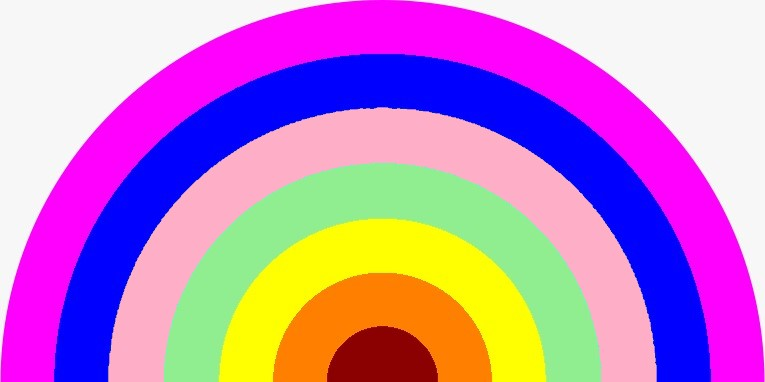
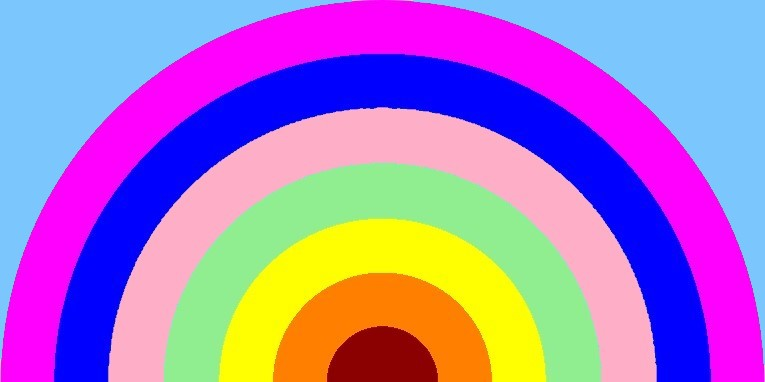
Color blindness screen completd with images modification and back btn added

Changed region(s): [[0.5412, 0.0, 1.0, 0.9503], [0.0, 0.0, 0.451, 0.9215]]

diff --git a/src/pages/ColorBlind/index.js b/src/pages/ColorBlind/index.js
@@ -4,19 +4,23 @@ import defaultImg from '../../assets/default.jpeg';
 import redGreenImg from '../../assets/red-green.jpeg';
 import tritonamalyImg from '../../assets/tritonamaly.jpeg';
 import tritanopiaImg from '../../assets/tritanopia.jpeg';
+import {useNavigate} from 'react-router-dom'
 
 
 const ColorBlind = () => {
     const [blindImage, setBlindImage] = React.useState(defaultImg);
+    const navigate = new useNavigate();
     
     const redGreenBtn = () => { setBlindImage(redGreenImg) };
     const tritonamalyBtn = () => { setBlindImage(tritonamalyImg) };
     const tritanopiaBtn = () => { setBlindImage(tritanopiaImg) };
     const resetBtn = () => { setBlindImage(defaultImg) };
+    const goBack = () => navigate('/');
 
 
     return (
         <div className={styles.container}>
+            <div className={styles.goBack} onClick={goBack}>{'< '} Back</div>
             <h1>Preview Image</h1>
             <p >
                 Lorem Ipsum is simply dummy text of the printing and typesetting industry.

diff --git a/src/pages/ColorBlind/colorBlind.module.scss b/src/pages/ColorBlind/colorBlind.module.scss
@@ -3,15 +3,30 @@
     justify-content: center;
     flex-direction: column;
     align-items: center;
-    
+    position: relative;
+
+    .goBack {
+        position: absolute;
+        font-size: 18px;
+        font-weight: 600;
+        top: 10px;
+        left: 20px;
+        color: #252d4a;
+        cursor: pointer;
+        font-family: -apple-system, BlinkMacSystemFont, 'Segoe UI', Roboto, Oxygen, Ubuntu, Cantarell, 'Open Sans', 'Helvetica Neue', sans-serif;
+    }
 
     img {
         height: 300px;
     }
 
+    h1 {color: #252d4a;}
+
     p {
         max-width: 800px;
         width: 100%;
+        color: #252d4a;
+        font-weight: 500;
     }
 
     .buttonSection {

diff --git a/src/index.scss b/src/index.scss
@@ -8,11 +8,9 @@ body {
 }
 * {
   font-family: "Verdana", cursive, sans-serif;
-  color: black;
+  color: #ffffff;
 }
 
 body {
-  // background-color: #7cc6fe;
-  background-color: #f7f7f7;
-  
+  background-color: #7cc6fe;
 }
